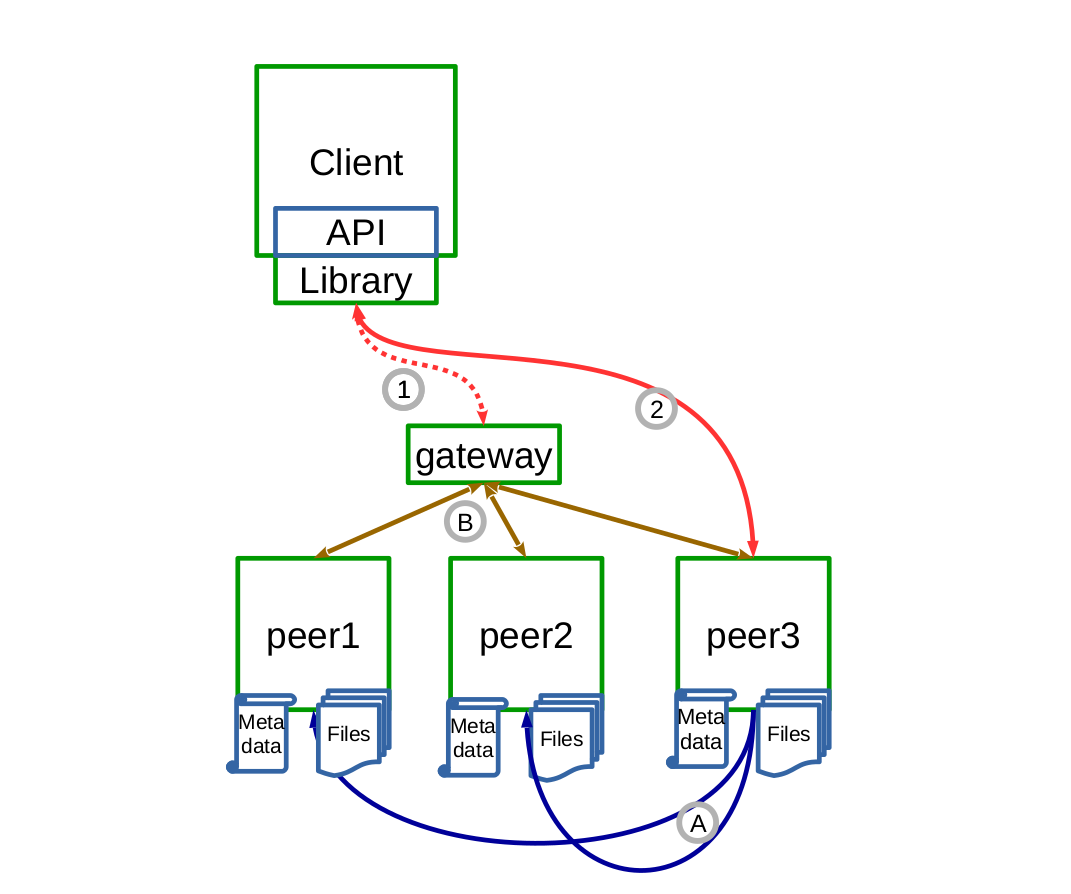
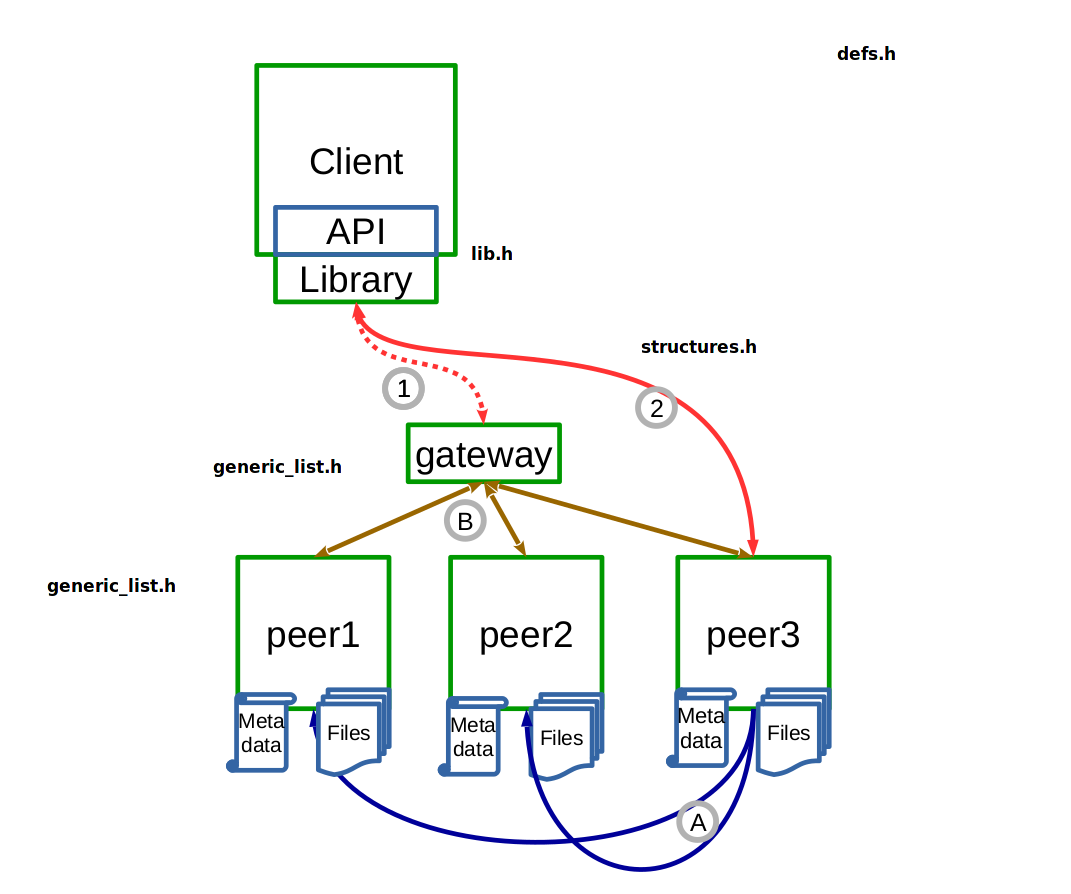
Updated read me

diff --git a/Project/README.md b/Project/README.md
@@ -1,5 +1,22 @@
-# PSis Project
+<h1>PSis Project</h1>
 
 <p align="center">
   <img src=".images/main_image.png">
 </p>
+
+<h2>client/</h2>
+<p>Where the user will develop. Contains API test clients.</p>
+
+<h2>lib/<h2>
+<p>Where all the client API functions are.</p>
+	<h3>lib.h</h3>
+	<p>This header is common to all this functions, and must be used by the client.</p>
+
+<h2>structures.h</h2>
+<p>Where all the different type of message structures are. Also contains the photo structure. This is common to the library and the peer.</p>
+
+<h2>generic_list.h</h2>
+<p>Void pointer list functions to be used by the peer and the gateway.</p>
+
+<h2>defs.h</h2>
+<p>Generic definitions, includes, etc common to peer, library and gateway.</p>
